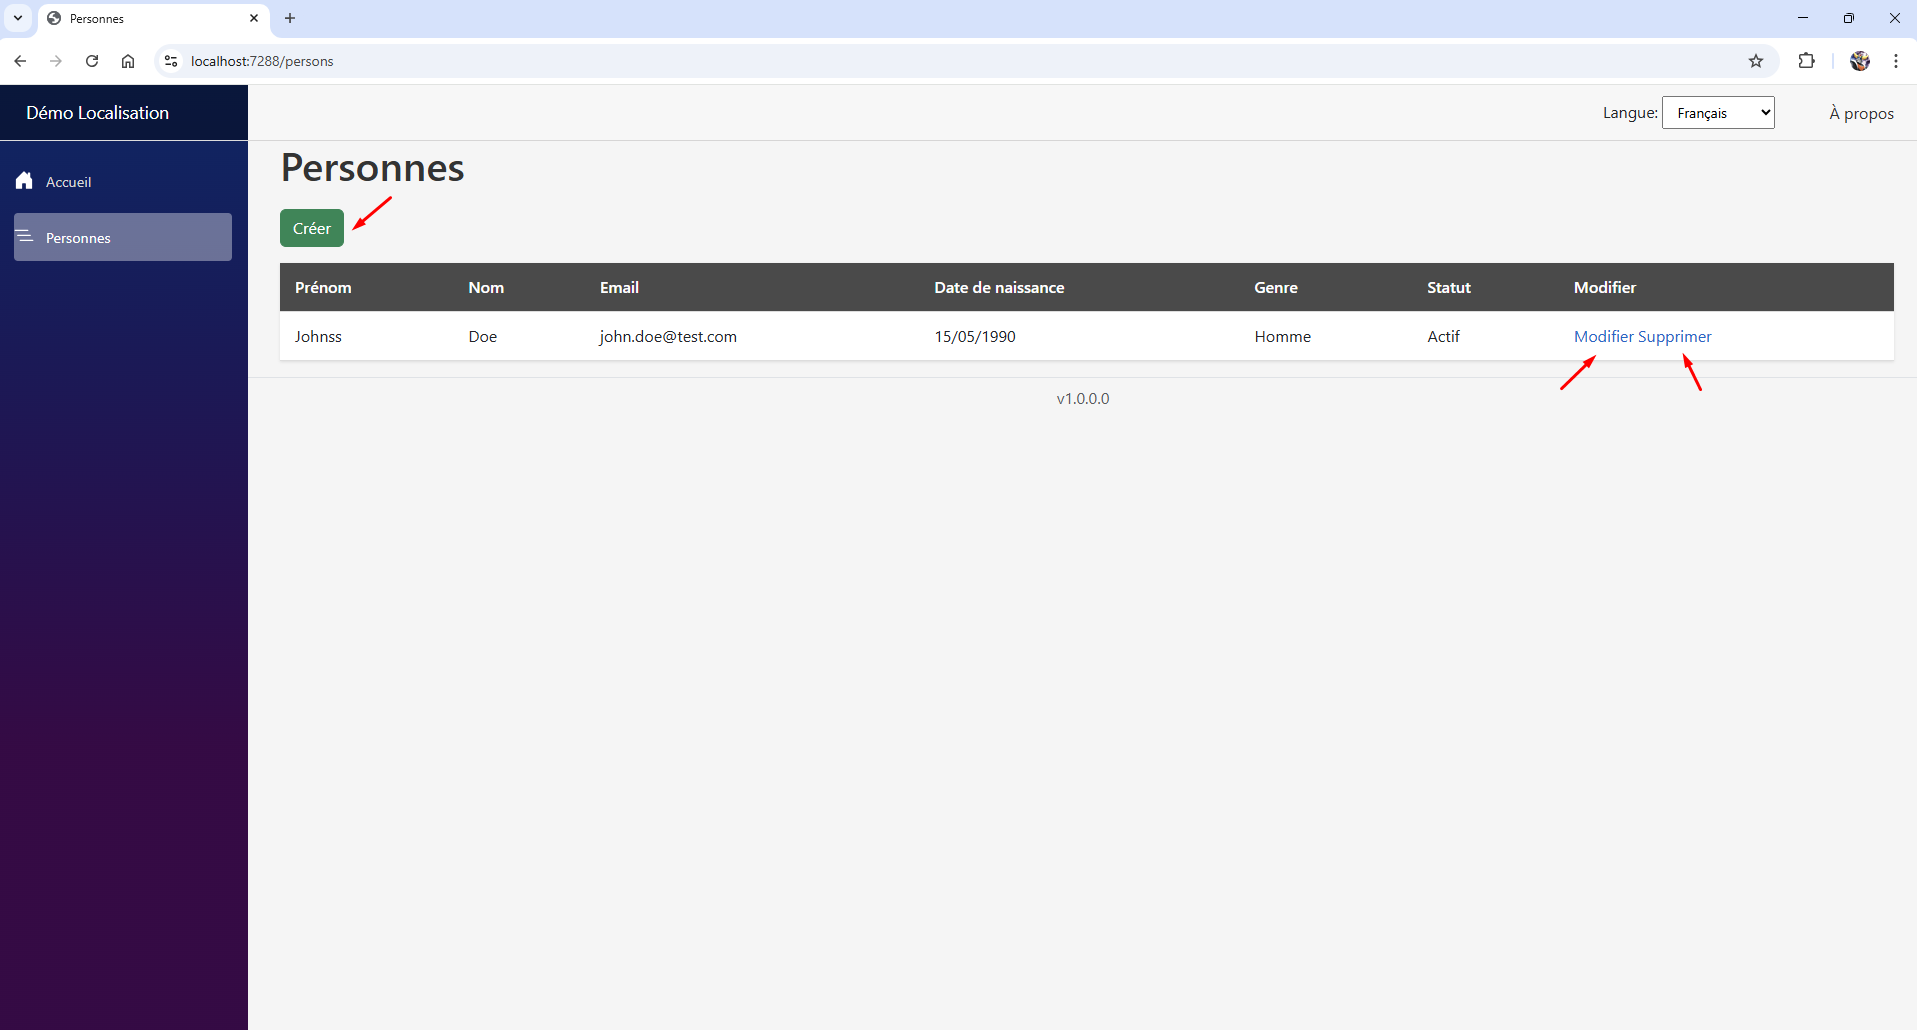
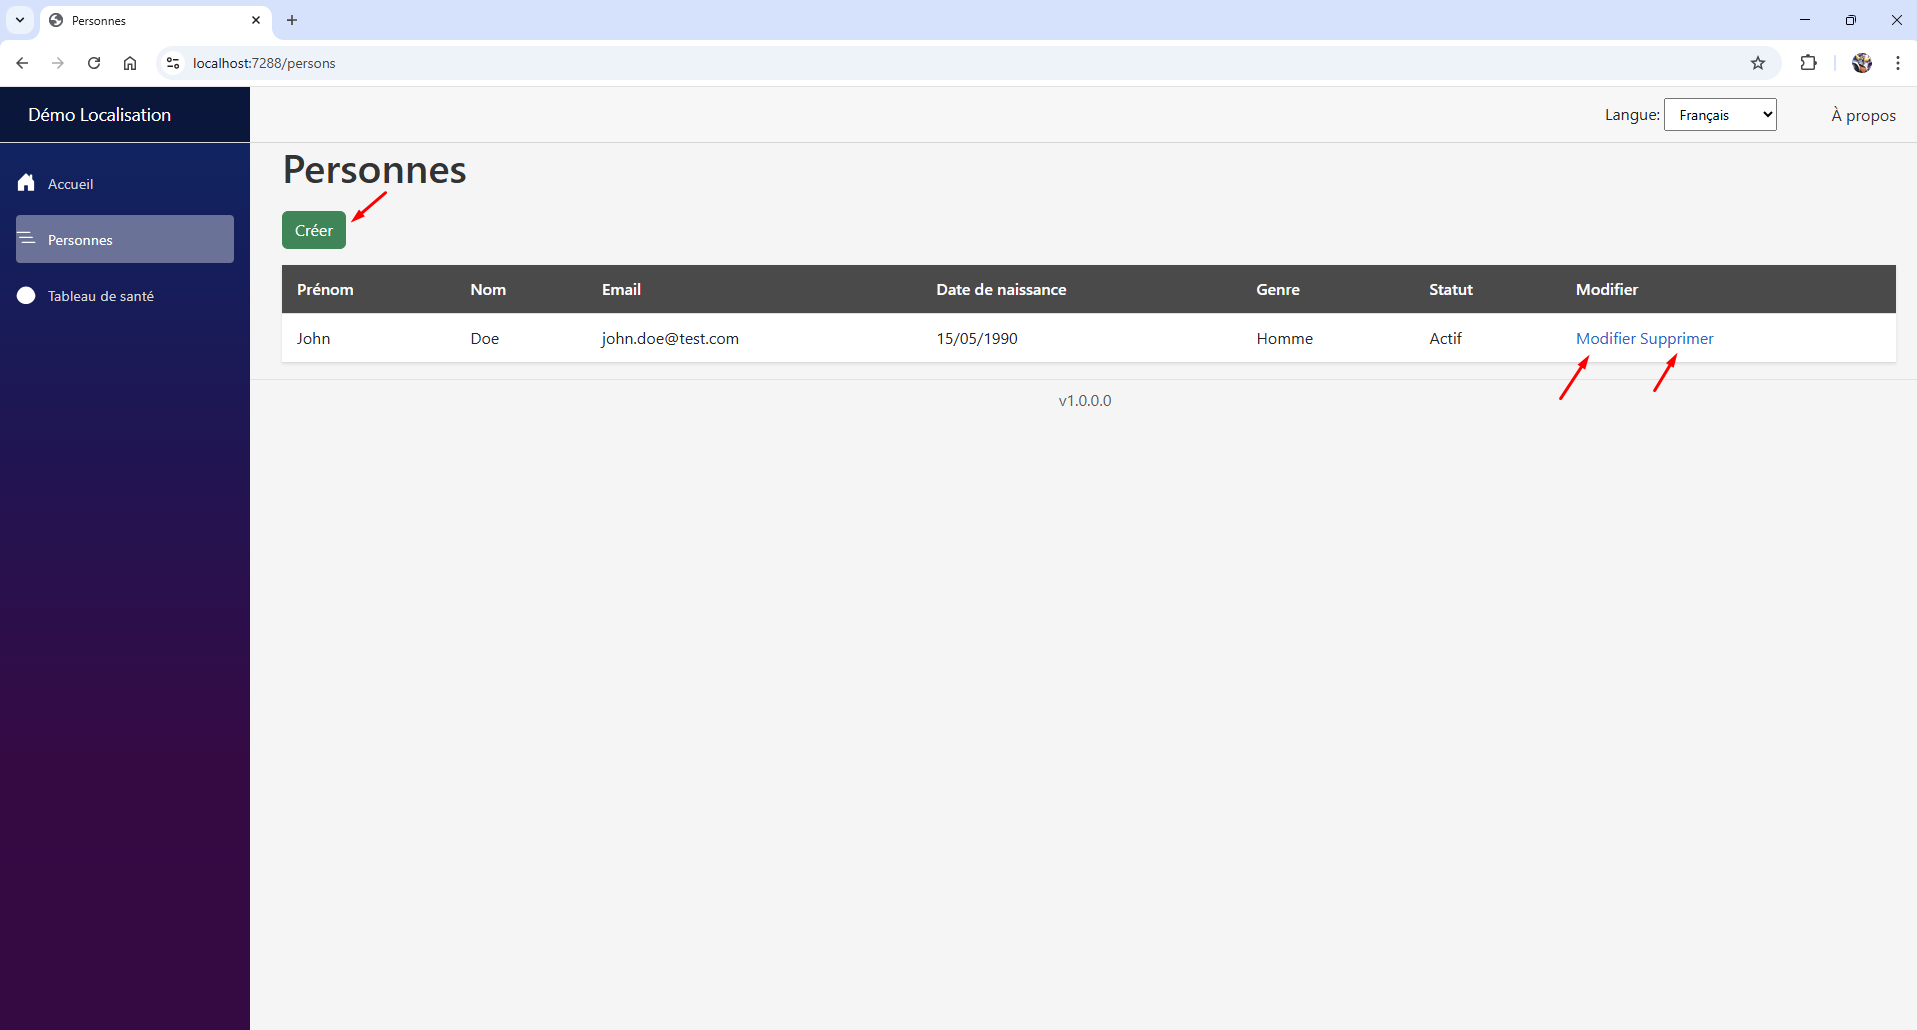
feat: Initial commit - Blazor localization app with REST API - Blazor Server with JSON localization (EN, FR, NL) - REST API with CQRS pattern (MediatR) - Docker Compose setup - Azure deployment ready - 67 unit tests

diff --git a/README.fr.md b/README.fr.md
@@ -124,6 +124,9 @@ Translations/
 ### API Swagger
 ![Swagger](screenshots/Screenshot_7.png)
 
+### Tableau de santé
+![Tableau de santé](screenshots/Screenshot_12.png)
+
 ---
 
 ## Tableau de santé

diff --git a/README.md b/README.md
@@ -124,6 +124,9 @@ Translations/
 ### API Swagger
 ![Swagger](screenshots/Screenshot_7.png)
 
+### Health Dashboard
+![Health Dashboard](screenshots/Screenshot_12.png)
+
 ---
 
 ## Health Dashboard
